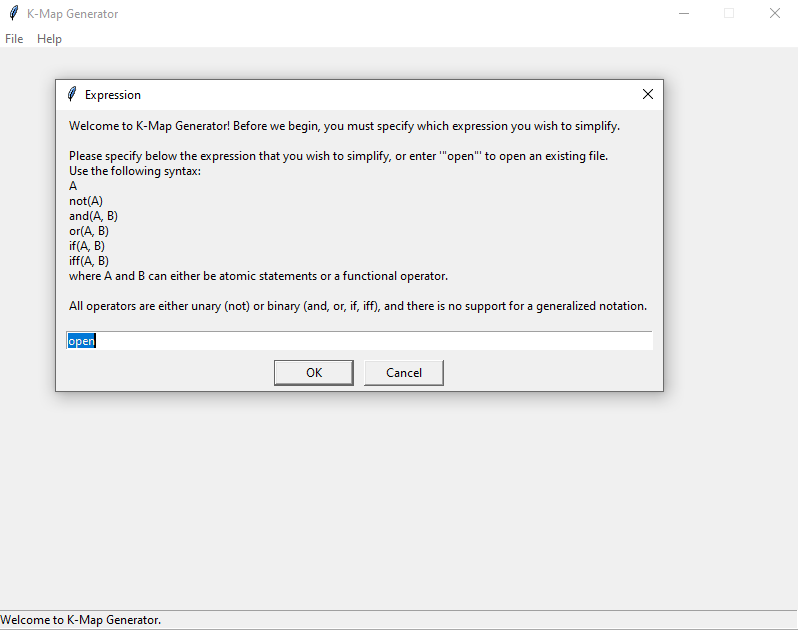
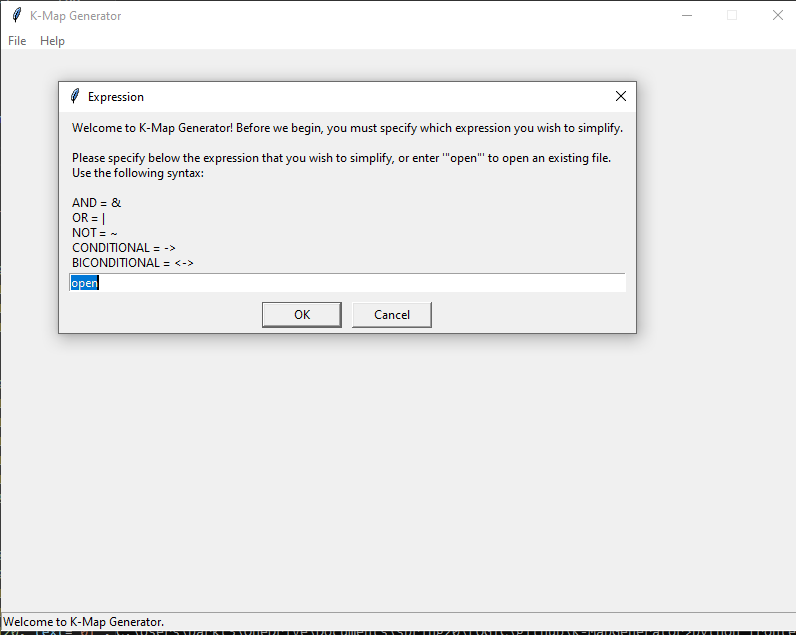
Bug fixes; removed print statements; updated documentation

diff --git a/backend.py b/backend.py
@@ -289,37 +289,37 @@ class KarnaughMap():
                 secondX2, secondY2 = br2
                 remove = []
                 if firstX1 == secondX1 and firstX2 == secondX2 and abs(firstY1-secondY1) <= 1 and abs(firstY2-secondY2) <= 1:
-                    print("Horizontal Combine")
+                    # print("Horizontal Combine")
                     newGrouping = ((firstX1, min(firstY1, secondY1)), (firstX2, max(firstY2, secondY2)))
                     remove.append(first)
                     remove.append(second)
                 elif firstX1 == secondX1 and firstX2 == secondX2 and ((secondY2 == self.columns-1 and firstY1 == 0) or (firstY2 == self.columns-1 and secondY1 == 0)):
-                    print("Horizontal Combine with Wraparound")
+                    # print("Horizontal Combine with Wraparound")
                     newGrouping = ((firstX1, max(firstY1, secondY1)), (firstX2, min(firstY2, secondY2)))
                     remove.append(first)
                     remove.append(second)
                 elif firstY1 == secondY1 and firstY2 == secondY2 and abs(firstX1-secondX1) <= 1 and abs(firstX2-secondX2) <= 1:
-                    print("Vertical Combine")
+                    # print("Vertical Combine")
                     newGrouping = ((min(firstX1, secondX1), firstY1), (max(firstX2, secondX2), firstY2))
                     remove.append(first)
                     remove.append(second)
                 elif firstY1 == secondY1 and firstY2 == secondY2 and ((secondX2 == self.rows-1 and firstX1 == 0) or (firstX2 == self.rows-1 and secondX1 == 0)):
-                    print("Vertical Combine with Wraparound")
+                    # print("Vertical Combine with Wraparound")
                     newGrouping = ((max(firstX1, secondX1), firstY1), (min(firstX2, secondX2), firstY2))
                     remove.append(first)
                     remove.append(second)
                 else:
                     if firstX1 <= secondX1 and firstY1 <= secondY1 and firstX2 >= secondX2 and firstY2 >= secondY2:
-                        print("First grouping contains second")
+                        # print("First grouping contains second")
                         newGrouping = first
                         remove.append(second)
                     elif firstX1 >= secondX1 and firstY1 >= secondY1 and firstX2 <= secondX2 and firstY2 <= secondY2:
-                        print("Second grouping contains first")
+                        # print("Second grouping contains first")
                         newGrouping = second
                         remove.append(first)
                     else:
                         raise Exception("Invalid Grouping")
-            print("Merging into new grouping: " + str(newGrouping))
+            # print("Merging into new grouping: " + str(newGrouping))
             self.addGrouping(newGrouping[0], newGrouping[1], merge)
             if merge:
                 for grouping in remove:
@@ -391,7 +391,7 @@ class KarnaughMap():
             if numVars > 3:
                 var4val = var4[y1][x1]
             if x1 <= x2 and y1 <= y2:
-                print("normal")
+                # print("normal")
                 # normal grouping, no wraparounds
                 for y in range(y1, y2+1):
                     for x in range(x1, x2+1):
@@ -405,15 +405,15 @@ class KarnaughMap():
                             var4val = -1
                         
             elif x1 >= x2 and y1 <= y2:
-                print("horiz")
+                # print("horiz")
                 # horizontal wraparound grouping 
                 for y in range(y1, y2+1):
                     for x in range(x1, self.columns):
-                        print(str(y) + "," + str(x))
+                        # print(str(y) + "," + str(x))
                         if var1val != None and var1[y][x] != var1val:
                             var1val = -1
                         if var2val != None and var2[y][x] != var2val:
-                            print("Q changed from" + str(var2val) + " to " + str(var2[y][x]))
+                            # print("Q changed from" + str(var2val) + " to " + str(var2[y][x]))
                             var2val = -1
                         if var3val != None and var3[y][x] != var3val:
                             var3val = -1
@@ -430,7 +430,7 @@ class KarnaughMap():
                             var4val = -1
             elif x1 <= x2 and y1 >= y2:
                 # vertical wraparound grouping 
-                print("vert")
+                # print("vert")
                 for y in range(y1, self.rows):
                     for x in range(x1, x2+1):
                         if var1val != None and var1[y][x] != var1val:
@@ -455,10 +455,10 @@ class KarnaughMap():
                 # what in the world??
                 return False, "Internal error, please check manually"
 
-            print(var1val)
-            print(var2val)
-            print(var3val)
-            print(var4val)
+            # print(var1val)
+            # print(var2val)
+            # print(var3val)
+            # print(var4val)
 
             # This array stores all the conjuncts for this disjunct
             conjunctions = []
@@ -491,7 +491,7 @@ class KarnaughMap():
         final = ""
         for disjunction in disjunctions:
             final = final + " | " + "(" + disjunction + ")"
-        print(final[3:])
+        # print(final[3:])
         return final[3:]
 
     # This function is responsible for checking a user's answer.
@@ -514,8 +514,8 @@ class KarnaughMap():
                     finally:
                         if success != "failed":
                             # we were able to merge two independent groupings, which means user did not merge some groupings
-                            print(x)
-                            print(y)
+                            # print(x)
+                            # print(y)
                             valid = False
                             return False, "Two or more groupings can be merged."
 
@@ -572,20 +572,20 @@ def main(statement):
     currentRoot = buildExpressionTreeData(resultNormalForm);
     if(countLines != 0):
         print("");
-    print(resultNormalForm)
+    """ print(resultNormalForm)
     print("Pre-Order Traversal:");
     printPreOrder(currentRoot);
     print("Done with Pre-Order Traversal.\n");
     print("Get All Satisfying Values:");
     print(currentRoot.getSatisfyingValues(isContradiction));
     print("Computed All Satisfying Values.\n");
-    print("Total # Variables:");
+    print("Total # Variables:"); """
     variables = currentRoot.getDistinctVariables()
-    print(variables);
+    # print(variables);
     currentKMap = KarnaughMap(currentRoot.getDistinctVariables());
     currentKMap.setOneValues(currentRoot.getSatisfyingValues(isContradiction));
     currentKMap.printMatrix();
-    print("Done w/ Karnaugh Map.");
+    # print("Done w/ Karnaugh Map.");
     countLines += 1;
     allKarnaughMaps.append(currentKMap);
     return allKarnaughMaps[0], variables, statement # outputFromHLDEquiv[5]

diff --git a/convert.py b/convert.py
@@ -22,7 +22,7 @@ class TreeNode(object):
 	def printTree(self):
 		if(self == None):
 			return
-		print(self.value)
+		# print(self.value)
 		self.left.print()
 		self.right.print()
 
@@ -139,21 +139,21 @@ def infixToPostfix(infix):
 				opStack.pop()
 			#Error-Checking:
 			if(opStack.isEmpty()):
-				print("Empty Stack.")
+				# print("Empty Stack.")
 				print(output)
-				return "ERROR"
+				# return "ERROR"
 			if(opStack.peek() == '('):
 				opStack.pop()
 		else:
 			#Check For Non-Alpha Characters:
 			if(not(token.isalpha())):
-				print("Not Alpha Not Space:", token, ".")
+				# print("Not Alpha Not Space:", token, ".")
 				return "ERROR"
 			output += token
 	#Append All Remaining Characters From opStack.
 	while(not(opStack.isEmpty())):
 		if(opStack.peek() == '(' or opStack.peek() == ')'):
-			print("Uh-OH! Mismatched Paranthesis")
+			# print("Uh-OH! Mismatched Paranthesis")
 			return "ERROR"
 		output += opStack.peek()
 		opStack.pop()
@@ -223,8 +223,8 @@ def convertToTree(postfix):
 			convertToTree.push(currentNode)
 
 	#Assert Only Root:
-	if(convertToTree.size() != 1):
-		print("Error In Construction. Must Review Input/Output.")
+	# if(convertToTree.size() != 1):
+		# print("Error In Construction. Must Review Input/Output.")
 	#Set New Head Value = Top/Root of Stack.
 	return convertToTree.peek()
 
@@ -233,13 +233,14 @@ def main(inputValue):
     try:
         currentExpression = inputValue
         prefixValue = convertInfixToPrefix(currentExpression)
-        print("Prefix Expression:", prefixValue)
+        # print("Prefix Expression:", prefixValue)
         currentRoot = convertToTree(prefixValue[::-1])
         finalExpression = currentRoot.convertToHLD()
-        print(finalExpression)
+        # print(finalExpression)
         return finalExpression
     except:
         messagebox.showerror("Error", "Failed to parse expression. Make sure you answer syntax is correct.")
+        return ""
 
 if __name__ == '__main__':
 	if(len(sys.argv) >= 2):     

diff --git a/logical_equivalency.py b/logical_equivalency.py
@@ -21,7 +21,7 @@ if __name__ == "__main__":
     PARSER_ARGS = PARSER.parse_args()
     equal, formula1, formula2 = runner(PARSER_ARGS.formula1, PARSER_ARGS.formula2)
 
-    if equal:
+"""     if equal:
         for steps, step_type in formula1[1]:
             for step in steps:
                 print(util.pretty_print(step).ljust(120) + " | " + util.StepTypes.get_message(step_type))
@@ -29,3 +29,4 @@ if __name__ == "__main__":
         for steps, step_type in formula2[1]:
             for step in steps:
                 print(util.pretty_print(step).ljust(120) + " | " + util.StepTypes.get_message(step_type))
+ """

diff --git a/README.md b/README.md
@@ -15,16 +15,15 @@ To run the program, simply double-click on the `frontend.pyw` file.
 ## Specifying an Expression Manually
 When the program first launches, you will be greeted with a dialogue box that asks you to enter an expression. The K-Map Generator will help you create a K-Map for this expression and use it to simplify this expression.
 
-K-Map Generator uses a functional format for inputting logical formulas. This is the base identity for inputs:
-```
-A
-not(A)
-and(A, B)
-or(A, B)
-if(A, B)
-iff(A, B)
-```
-where `A` and `B` can either be atomic statements or a functional operator. All operators are either unary (not) or binary (and, or, if, iff) and there is no support for a generalized notation. This means that ```and(A, B, C)``` will thrown an error. An example of a valid input is `iff(and(not(P),Q),and(R,S))`.
+The following syntax is used for inputting expressions:
+
+AND = &
+OR = |
+NOT = ~
+CONDITIONAL = ->
+BICONDITIONAL = <->
+
+An example of a valid input is `((~P & Q) <-> (R & S))`.
 
 Expressions with more than 4 variables are not supported at this time.
 
@@ -44,7 +43,7 @@ Let's take some time to explore this interface.
 
 - At the top of the screen, the program prints the expression that you entered in a human-readable format. 
 - Directly below this, in the center of the screen, is the K-Map. The program labels the cells in the K-Map for you.
-- To the left of the K-Map is an Instructions button, which displays instructions for how to use the program.
+- To the left of the K-Map is an Instructions button, which refers the user to this document.
 - To the right of the K-Map is a list of all the groupings you have created on your K-Map. Currently, we have not created any groupings, so this list is empty.
 - Underneath the K-Map, there are entry fields for creating and merging groupings. We will discuss this in more detail later.
 - Finally, at the bottom, there is a text field where you can enter your final answer (that is, the final expression that you get after simplifying the original expression using the K-Map). There is also a Check Answer button, which allows you to check your work. This will be discussed in more detail later.
@@ -91,7 +90,9 @@ The following rules apply to groupings:
 ## Checking Final Answer
 Once you have created all of your groupings and are sure they are correct, use them to come up with a simplified logical expression. If you are unsure how to do this, read the following guide on K-Maps: https://en.wikichip.org/wiki/karnaugh_map
 
-Write your simplified logic expression in the "Your Answer" box, then click the Check Answer button. The Check Answer button will first verify that you created your groupings correctly; if you did not, it will tell you to correct your groupings. If your groupings were made correctly, the program will present you with the correct simplified expression that you should have gotten. You can use this to self-check your answer.
+Write your simplified logic expression in the "Your Answer" box, using the same syntax described earlier, then click the Check Answer button. The Check Answer button will first verify that you created your groupings correctly; if you did not, it will tell you to correct your groupings. If your groupings were made correctly, the program will then check whether the answer you inputted matches the groupings you created. If your expression can be simplified more, or if it is not logically equivalent to the original expression, the program will throw an error message; otherwise, it will declare that your answer is correct.
+
+![Figure 11](https://github.com/venkatrsrinivas/K-MapGenerator/blob/master/screenshots/11.png)
 
 ## Saving Files
 To save your current progress, or save the solved K-Map after you have completed it, go to the File menu and click Save.
